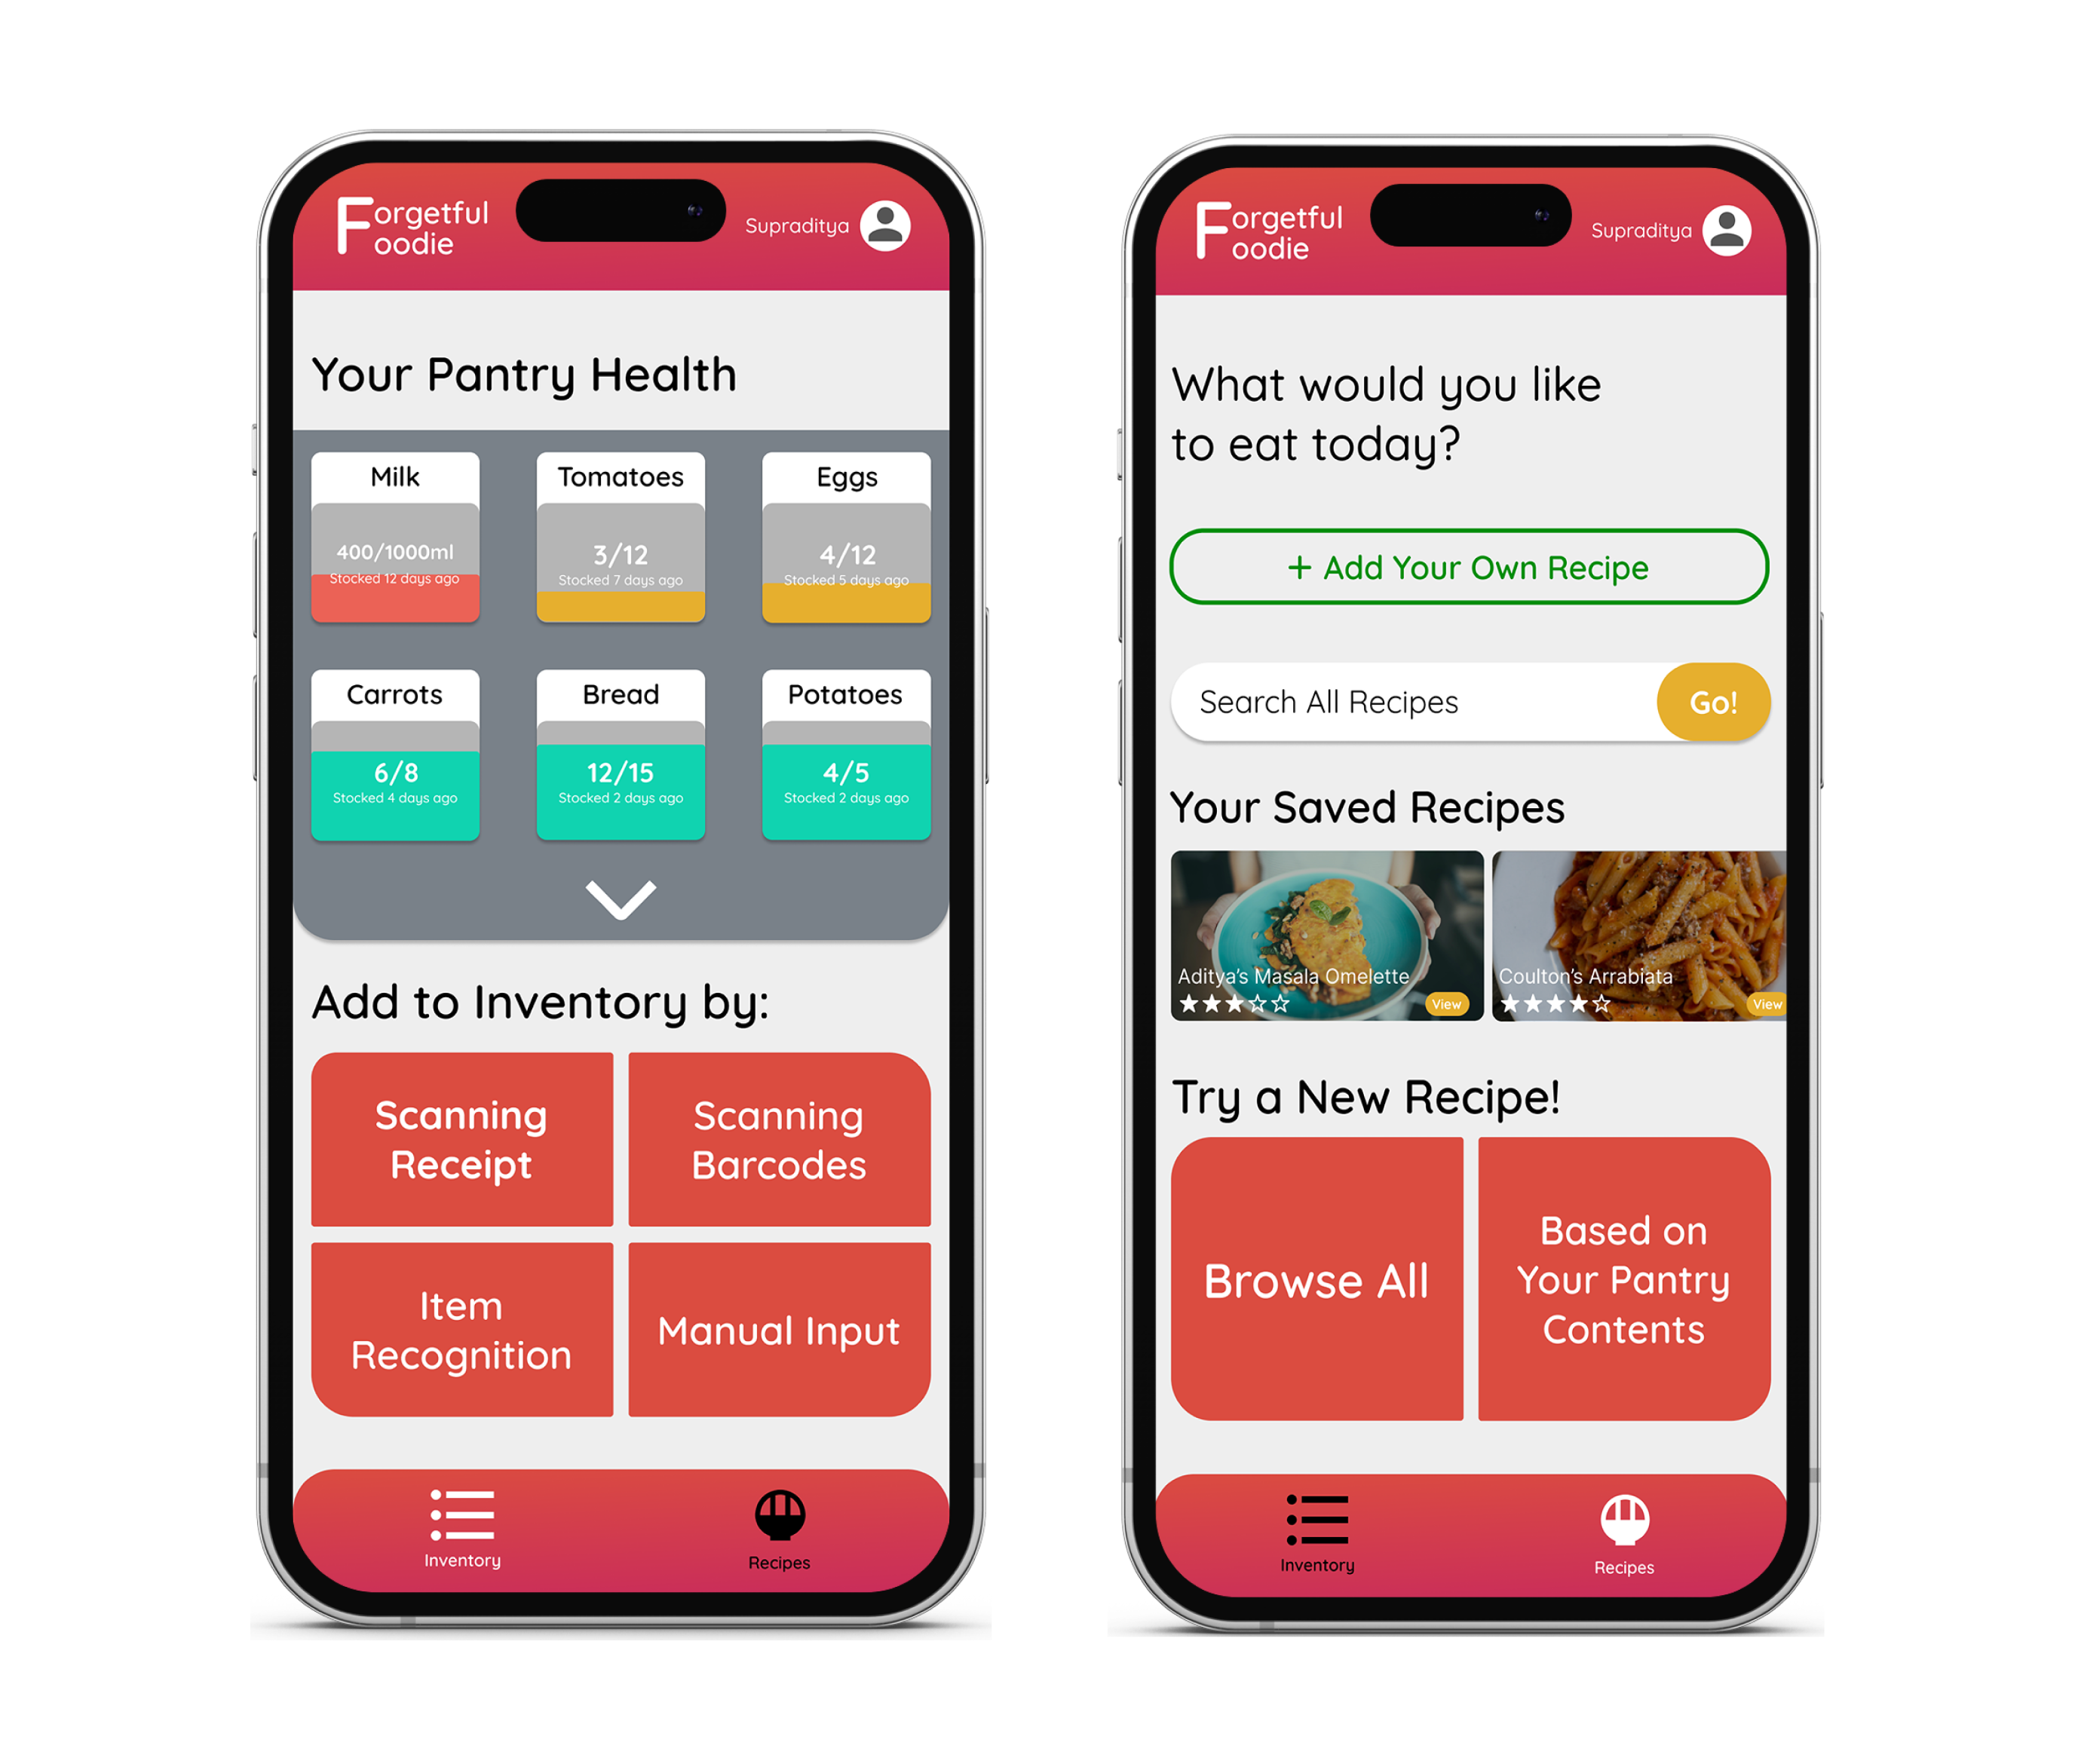
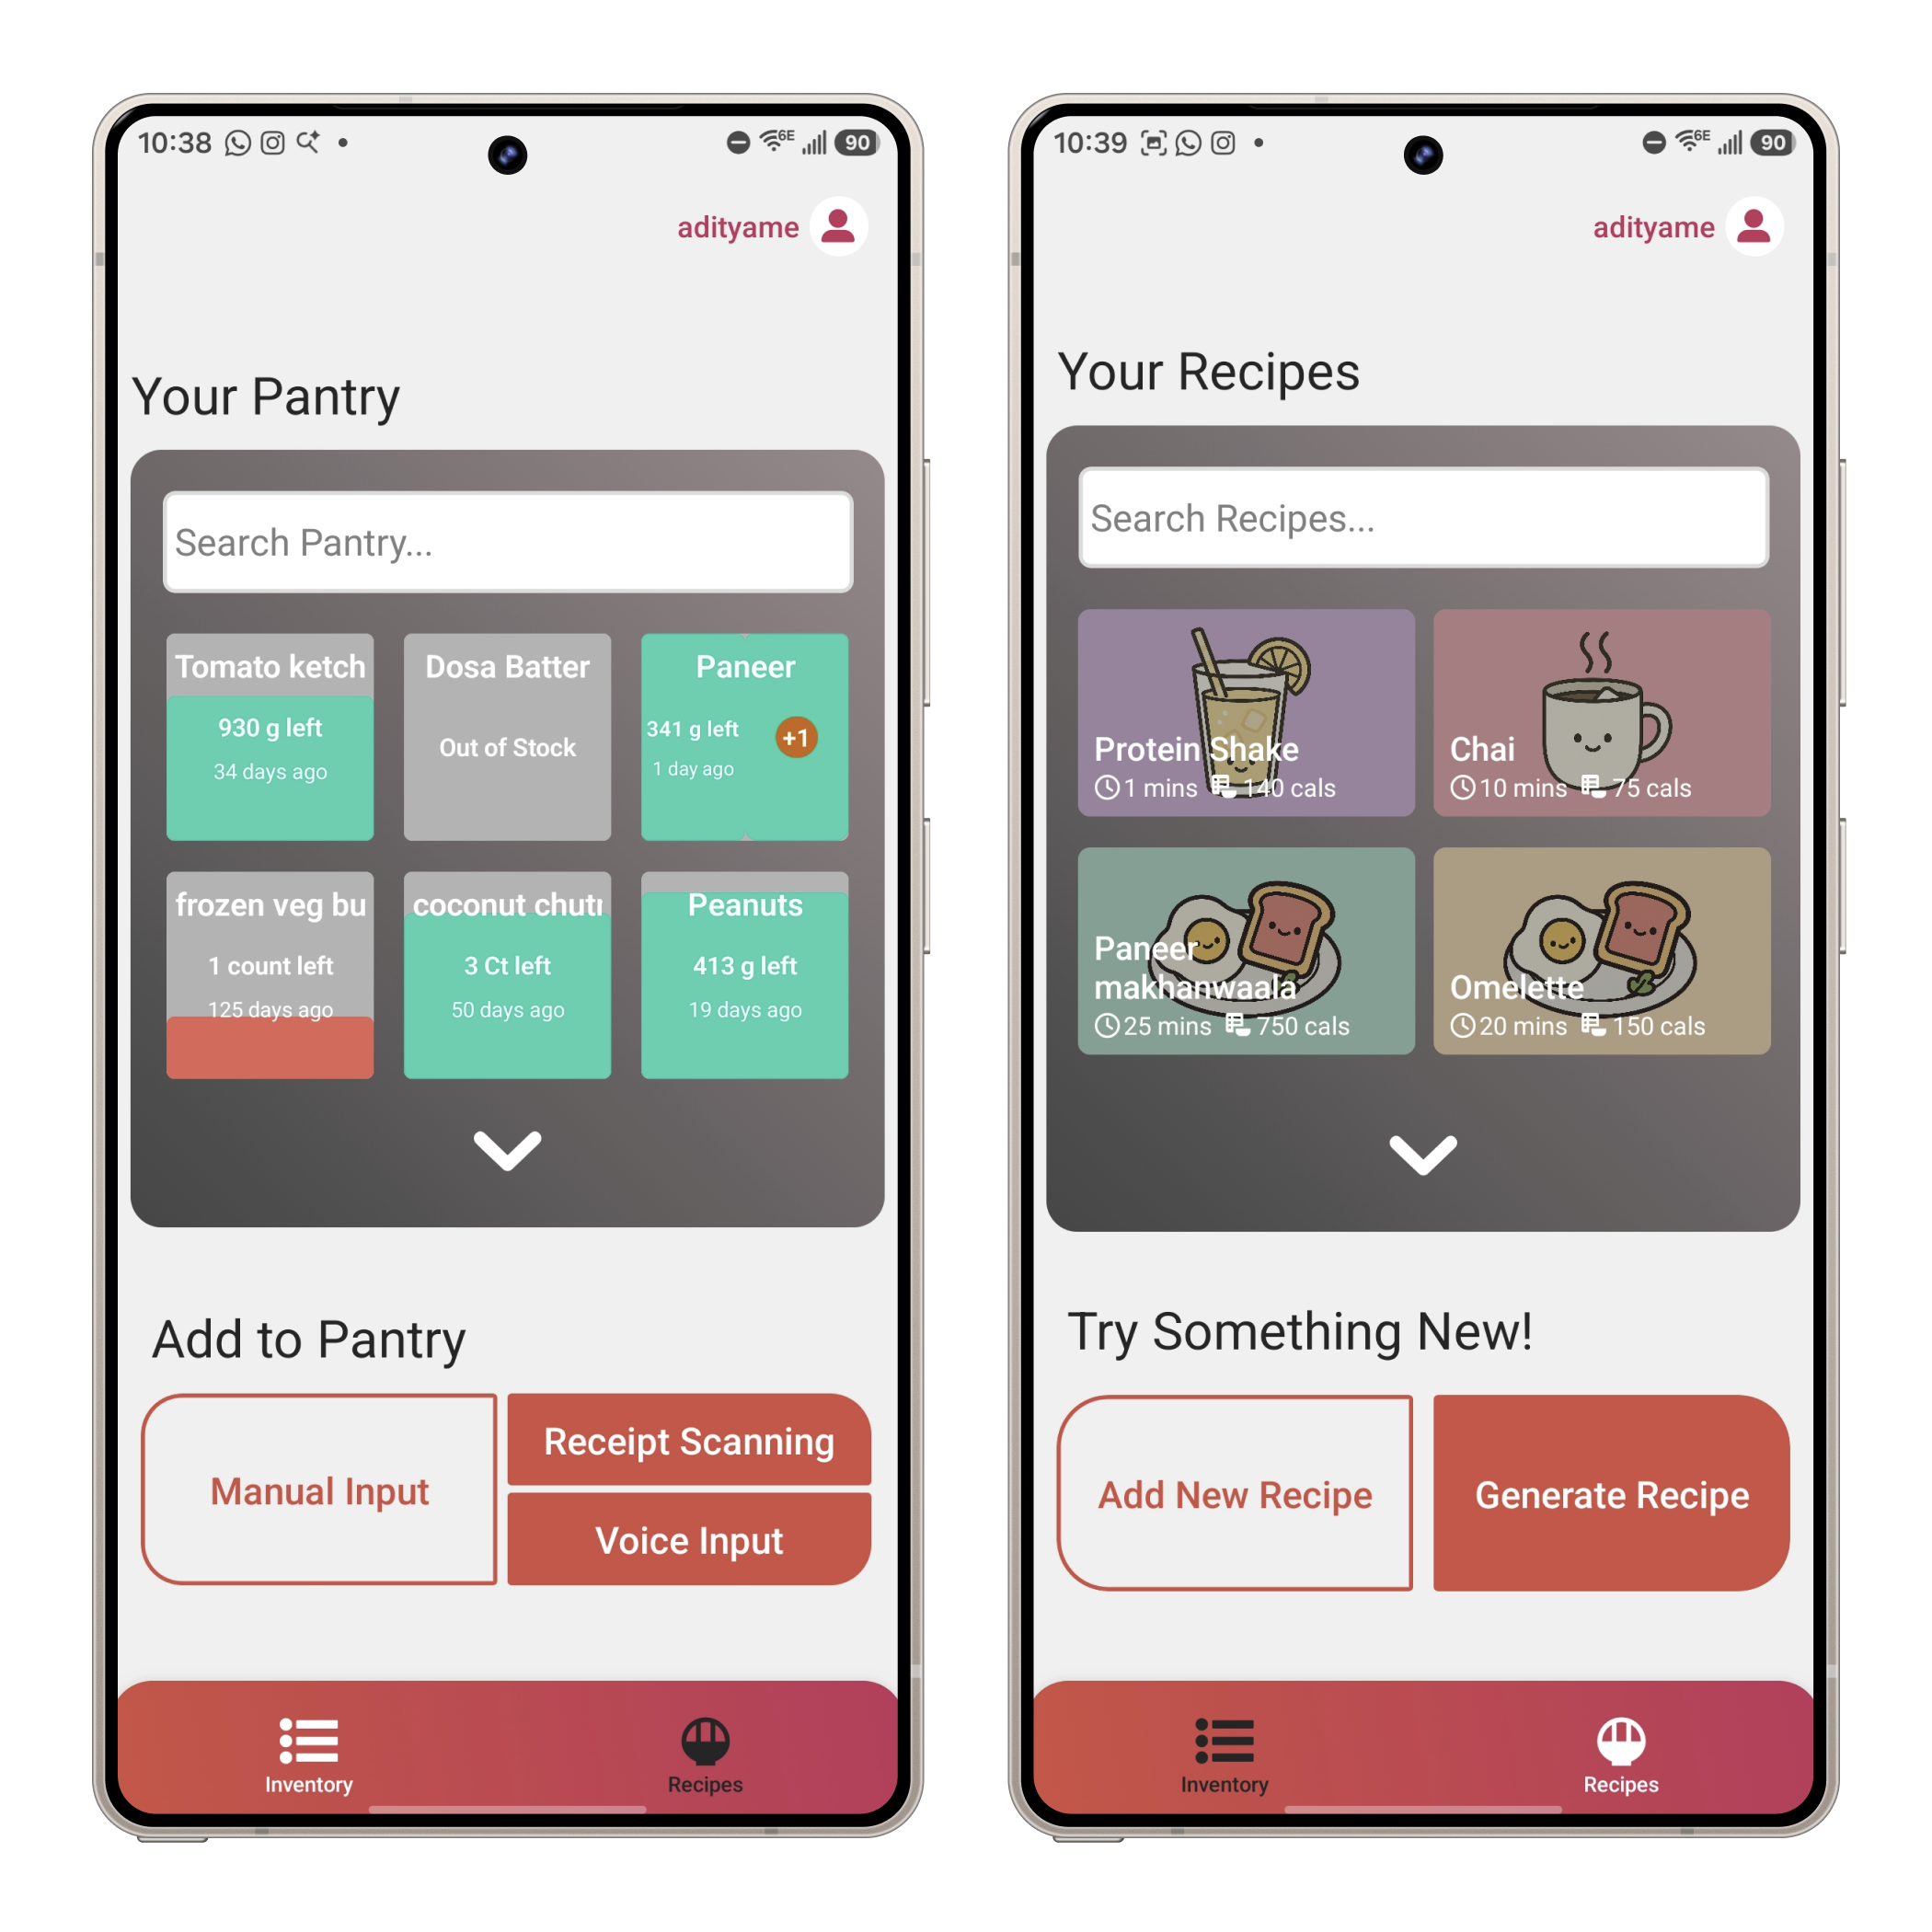
Forgetful foodie content updated with alpha progress

diff --git a/pages/projects/forgetful-foodie.js b/pages/projects/forgetful-foodie.js
@@ -37,7 +37,10 @@ import revision5 from "../../public/assets/forgetful-foodie/revision-5.png";
 import Highlights from "../../components/ProjectPage/Highlights";
 import ActionButton from "../../components/ActionButton";
 import { FaFigma, FaYoutube } from "react-icons/fa";
-// import {BsArrowUp} from "react-icons/bs";
+import poster1 from "../../public/assets/forgetful-foodie/poster-1.png";
+import poster2 from "../../public/assets/forgetful-foodie/poster-2.png";
+import poster3 from "../../public/assets/forgetful-foodie/poster-3.png";
+import poster4 from "../../public/assets/forgetful-foodie/poster-4.png";
 
 export default function forgetfulFoodie() {
   // State to render ReactPlayer after window is loaded, to avoid HydrationError
@@ -79,9 +82,9 @@ export default function forgetfulFoodie() {
           label="Prototype"
         />
         <ActionButton
-          link="https://youtu.be/j7gjYZUBELQ"
+          link="https://www.youtube.com/watch?v=sJOn30xOick"
           icon={<FaYoutube />}
-          label="DevLog"
+          label="DevLog 1"
         />
         <div className="py-4 my-2 md:my-4 md:pr-12 rounded-md text-center bg-blue-200 flex flex-col items-center md:flex-row justify-between">
           <div className="w-4/5 md:w-1/2 mt-5">
@@ -97,25 +100,25 @@ export default function forgetfulFoodie() {
         </div>
         <Highlights
           summary="Forgetful Foodie was ideated and designed as part of our coursework with the Master of Science in Information (MSI) program at the University of Michigan, for the course “Introduction to Interaction Design”. I collaborated with two fellow graduate students to ideate and design a smartphone application to reduce food wastage by streamlining pantry and inventory management for the average household owner."
-          roles={["UX Designer", "UX Researcher"]}
+          roles={["Fullstack Developer", "UX Designer", "UX Researcher"]}
           team={["Saumya Bora", "Coulton Theuer"]}
           timeline="Aug 2022 - Dec 2022"
-          tools={["Figma", "Adobe Illustrator"]}
+          tools={["React Native", "Supabase", "Figma", "Adobe Illustrator"]}
         />
         <div className="p-8 my-6 rounded-md bg-gradient-to-br from-[#DB4C40] to-[#C92C5B]">
           <h3 className="font-primary font-semibold text-white text-xl">
-            Forgetful Foodie is under Active Development!
+            Forgetful Foodie is in Active Development!
           </h3>
 
           <p className="font-secondary text-lg font-base py-4 text-left text-white">
-            It's official: I'm personally developing and planning to publish
-            Forgetful Foodie to iOS and Android using React Native! Here's the
-            very first DevLog explaining my plans and motivation:
+            It's official: Forgetful Foodie is currently in Alpha, and is
+            available on Android and Web (PWA), with iOS support coming soon!
+            Here's my latest DevLog that'll walk you through the app features:
           </p>
           {hasWindow && (
             <div className="my-2 rounded-md flex justify-around">
               <ReactPlayerYoutube
-                url="https://youtu.be/j7gjYZUBELQ"
+                url="https://www.youtube.com/watch?v=sJOn30xOick"
                 playing={false}
                 controls={true}
                 className="mx-auto rounded-md"
@@ -123,6 +126,37 @@ export default function forgetfulFoodie() {
             </div>
           )}
         </div>
+        <h3 className="font-primary font-medium text-xl mb-1">
+          Forgetful Foodie Alpha: Features Overview
+        </h3>
+        <Zoom>
+          <Image
+            src={poster1}
+            alt="Forgetful Foodie Alpha: Pantry overview"
+            className="mx-auto my-4 rounded-md"
+          ></Image>
+        </Zoom>
+        <Zoom>
+          <Image
+            src={poster2}
+            alt="Forgetful Foodie Alpha: Pantry input"
+            className="mx-auto my-4 rounded-md"
+          ></Image>
+        </Zoom>
+        <Zoom>
+          <Image
+            src={poster3}
+            alt="Forgetful Foodie Alpha: Recipes"
+            className="mx-auto my-4 rounded-md"
+          ></Image>
+        </Zoom>
+        <Zoom>
+          <Image
+            src={poster4}
+            alt="Forgetful Foodie Alpha: Recipe Generation"
+            className="mx-auto my-4 rounded-md"
+          ></Image>
+        </Zoom>
         <h3 className="font-primary font-medium text-xl mb-1">The Problem</h3>
         <p className="font-secondary text-lg font-light text-justify">
           Household food wastage has been a significant problem globally.

diff --git a/pages/index.js b/pages/index.js
@@ -127,21 +127,21 @@ export default function Home() {
             <div className="max-lg:hidden lg:flex flex-col items-end justify-center w-1/3 ">
               <FigmaCommentDialog>
                 <Link
+                  href="https://www.youtube.com/watch?v=sJOn30xOick"
+                  target="_blank"
+                  rel="noreferrer"
+                  className="text-lg flex items-center hover:underline"
+                >
+                  [New!] Forgetful Foodie DevLog 1{" "}
+                  <BiLinkExternal className="mt-0.5 ml-1" />
+                </Link>
+                <Link
                   href="https://medium.com/@aditya300100"
                   target="_blank"
                   rel="noreferrer"
                   className="text-lg flex items-center hover:underline"
                 >
                   My Medium Articles <BiLinkExternal className="mt-0.5 ml-1" />
-                </Link>
-                <Link
-                  href="https://www.npmjs.com/~supraditya"
-                  target="_blank"
-                  rel="noreferrer"
-                  className="text-lg flex items-center hover:underline"
-                >
-                  My Open-Source Contributions
-                  <BiLinkExternal className="mt-0.5 ml-1" />
                 </Link>
               </FigmaCommentDialog>
             </div>
@@ -156,6 +156,15 @@ export default function Home() {
           </p>
           <div className="flex flex-col w-fit md:w-full mb-2">
             <FeaturedProject
+              title="Forgetful Foodie"
+              domains={["All", "Development", "Case Study", "Design"]}
+              flow="right"
+              link="forgetful-foodie"
+              image="forgetful-foodie"
+              description="A kitchen pantry tracking and recipe-curation solution for the household."
+              inActiveDev={true}
+            />
+            <FeaturedProject
               title="R.E.T.A On-The-Go!"
               domains={[
                 "All",
@@ -163,18 +172,11 @@ export default function Home() {
                 "UX Research",
                 "User-Centered Agile Development",
               ]}
-              flow="right"
+              flow="left"
               link="reta"
               image="reta"
               description="Streamlining the 'administrative' part of Healthcare for Individuals pushing the boundaries of Modern Medicine."
-            />
-            <FeaturedProject
-              title="Forgetful Foodie"
-              domains={["All", "Case Study", "Design", "Development"]}
-              flow="left"
-              link="forgetful-foodie"
-              image="forgetful-foodie"
-              description="A kitchen pantry tracking and recipe-curation solution for the household."
+              inActiveDev={false}
             />
             <FeaturedProject
               title="Auto UX Concept for General Motors"
@@ -183,6 +185,7 @@ export default function Home() {
               link="auto-ux"
               image="auto-ux"
               description="A full-fledged UI for Mass-Market Automobiles with humble peripherals."
+              inActiveDev={false}
             />
 
             <p className="font-secondary text-center mx-auto text-lg">

diff --git a/pages/projects/index.js b/pages/projects/index.js
@@ -23,7 +23,9 @@ export default function Projects() {
       </Head>
       <Navbar />
       <div className="px-10 md:px-32 mb-10">
-        <p className="text-4xl md:text-7xl 2xl:text-[5rem] font-primary mb-5 2xl:mt-10 2xl:mb-16">My Projects</p>
+        <p className="text-4xl md:text-7xl 2xl:text-[5rem] font-primary mb-5 2xl:mt-10 2xl:mb-16">
+          My Projects
+        </p>
         <div className="flex-wrap lg:w-4/5 xl:w-2/3 flex justify-start md:justify-between font-secondary text-xl 2xl:text-3xl">
           <button
             aria-label="Show all projects"
@@ -85,16 +87,16 @@ export default function Projects() {
         <div className="mt-4 sm:grid xl:grid-cols-3 lg:grid-cols-2 gap-x-8 justify-start">
           <ProjectCard
             currentTab={projectTab}
-            title="R.E.T.A On-the-Go!"
-            image="reta"
-            link="reta"
+            title="Forgetful Foodie"
+            image="forgetful-foodie"
+            link="forgetful-foodie"
             domains={["Featured", "All", "Case Study", "Design", "Development"]}
           />
           <ProjectCard
             currentTab={projectTab}
-            title="Forgetful Foodie"
-            image="forgetful-foodie"
-            link="forgetful-foodie"
+            title="R.E.T.A On-the-Go!"
+            image="reta"
+            link="reta"
             domains={["Featured", "All", "Case Study", "Design", "Development"]}
           />
           <ProjectCard

diff --git a/components/FeaturedProject.js b/components/FeaturedProject.js
@@ -27,9 +27,16 @@ export default function FeaturedProject(props) {
               props.flow === "right" ? "md:float-right" : ""
             }`}
           >
-            <p className="font-primary text-2xl md:text-5xl mb-0.5 md:mb-2">
+            <p
+              className={`font-primary text-2xl md:text-5xl ${props.inActiveDev ? "" : "mb-0.5 md:mb-2"}`}
+            >
               {props.title}
             </p>
+            {props.inActiveDev && (
+              <p className="py-1 px-2 w-fit text-white font-medium my-3 rounded-md bg-gradient-to-br from-[#DB4C40] to-[#C92C5B]">
+                In active development!
+              </p>
+            )}
             <div className="font-secondary font-medium text-lg md:text-xl">
               <ListRenderer list={props.domains} removeEnds={true} />
             </div>
@@ -38,7 +45,7 @@ export default function FeaturedProject(props) {
             </div>
             <button
               aria-label="View Project"
-              className={`font-primary text-base border border-black rounded-sm px-3 py-2 ${hover ? 'bg-black text-white':''} ease-in-out`}
+              className={`font-primary text-base border border-black rounded-sm px-3 py-2 ${hover ? "bg-black text-white" : ""} ease-in-out`}
             >
               View
             </button>